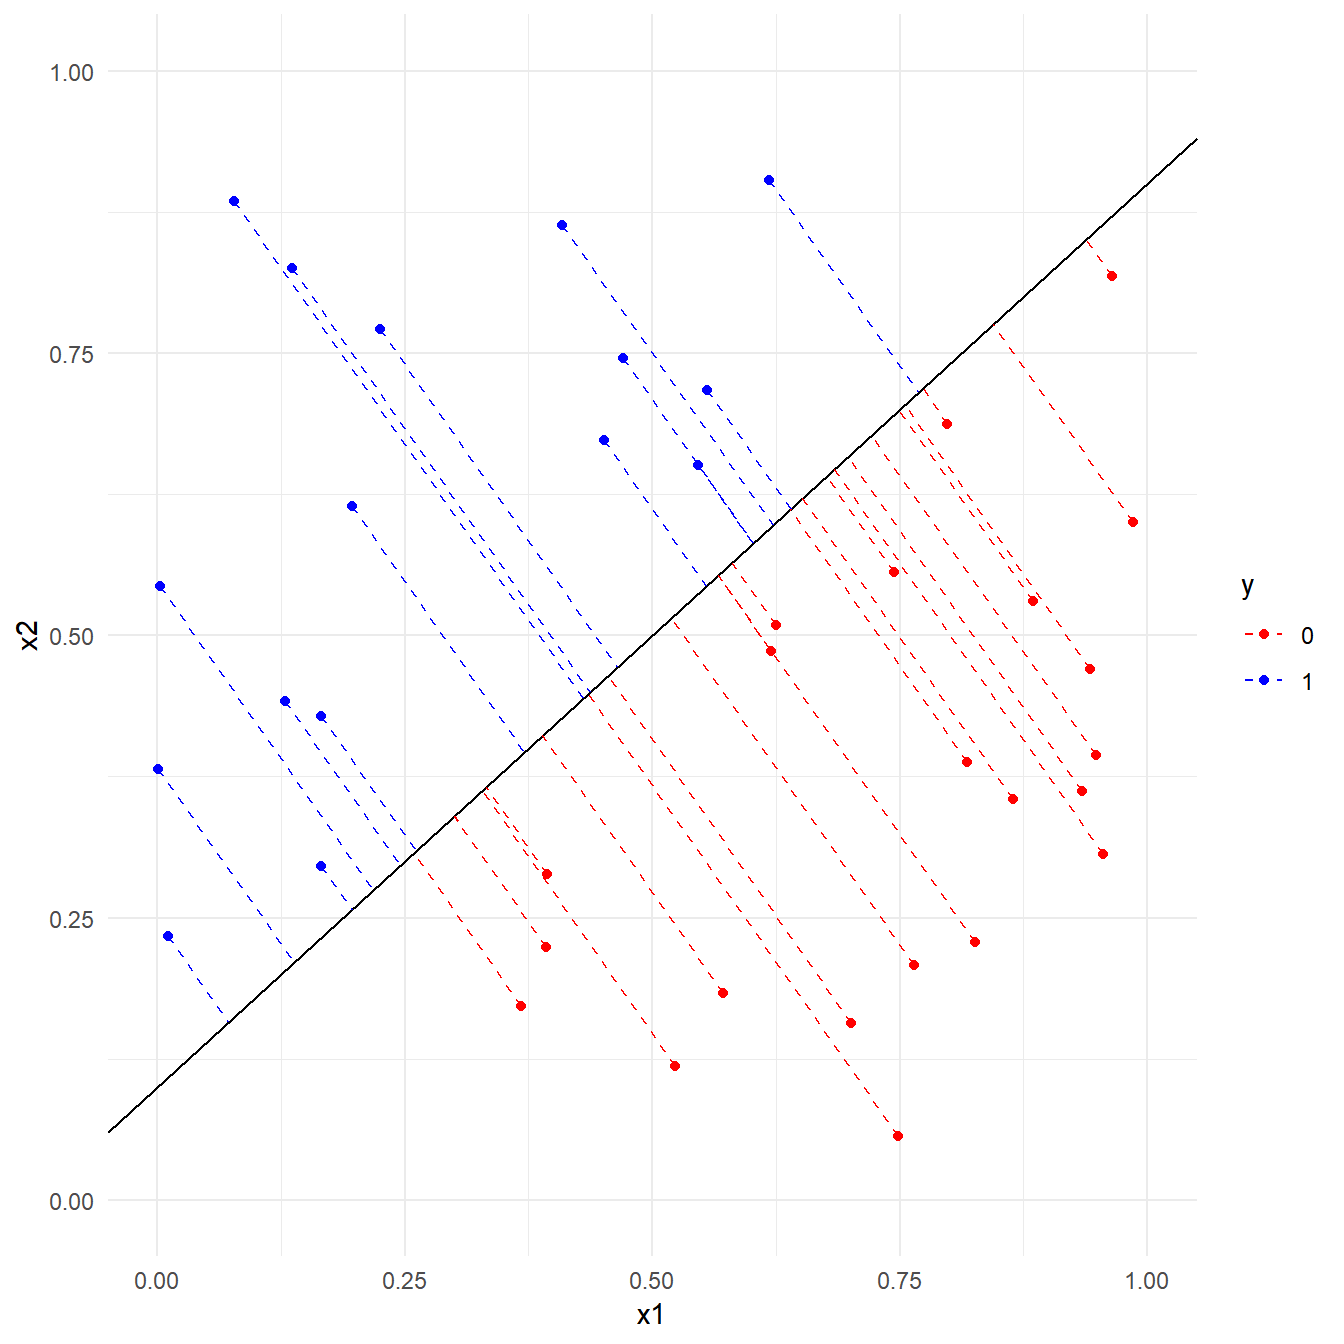
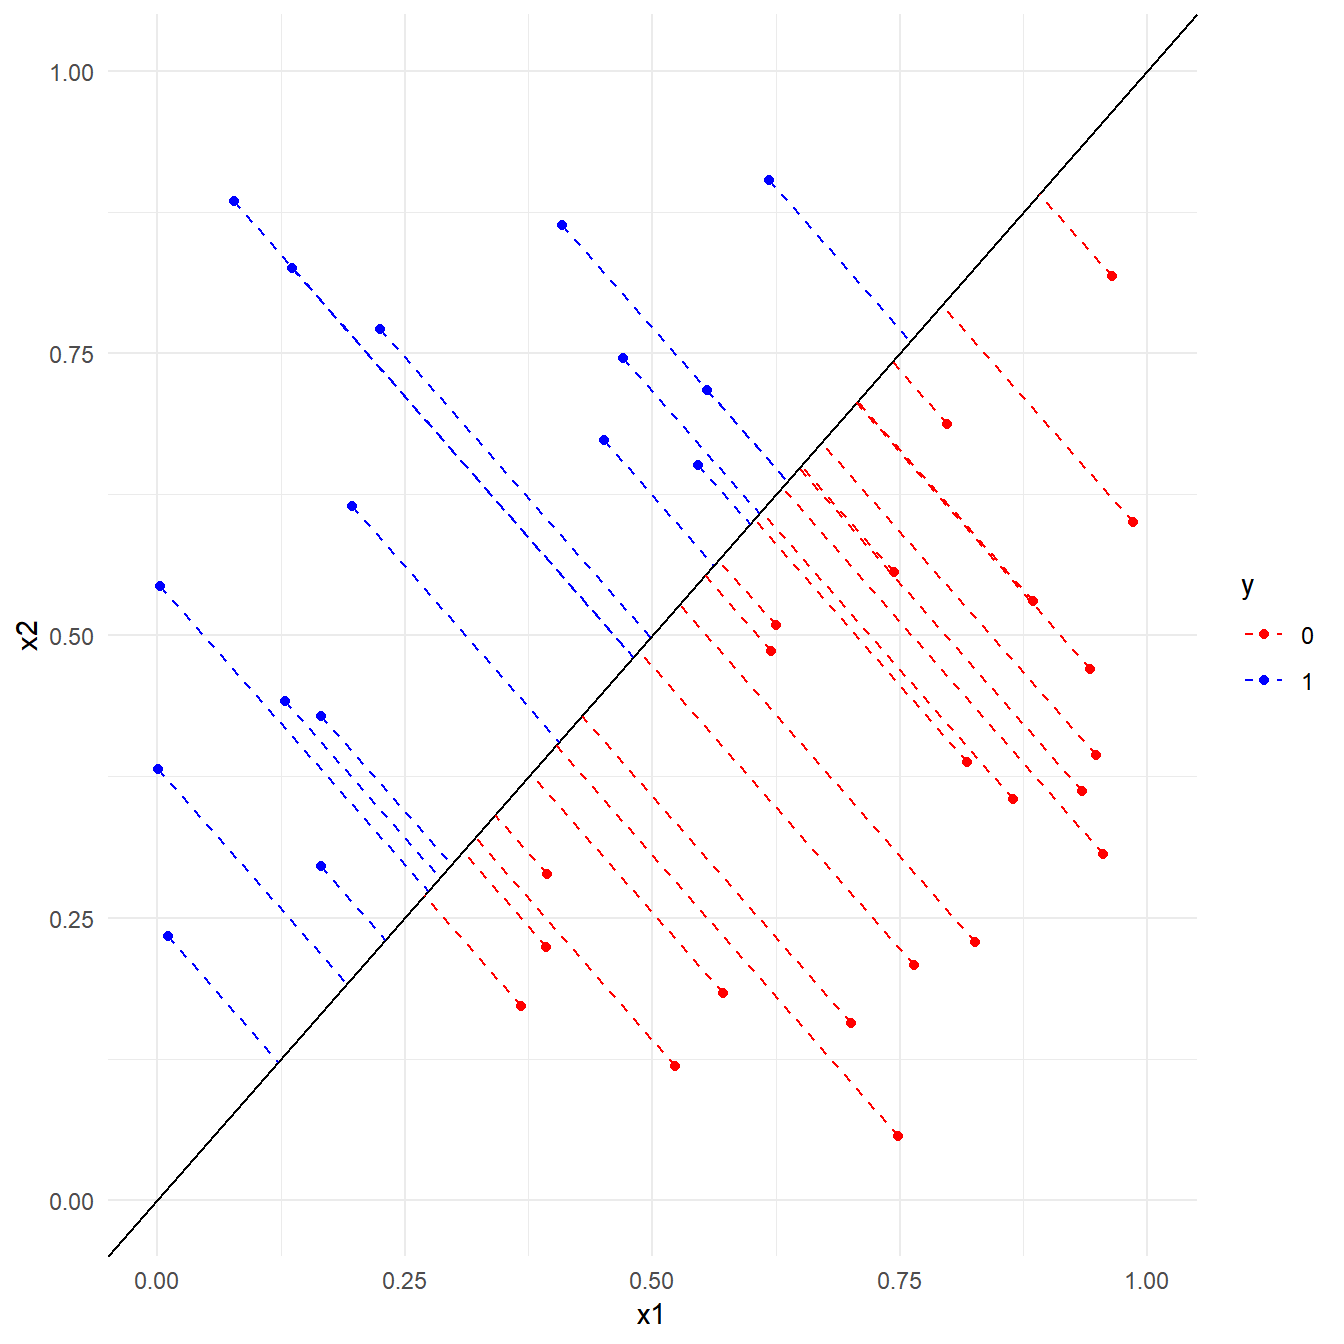
updated

diff --git a/public/2020/05/18/svm-theory-part1/index.html b/public/2020/05/18/svm-theory-part1/index.html
@@ -62,7 +62,7 @@
 
   <article class="article">
     
-    <span class="article-duration">4 min read</span>
+    <span class="article-duration">5 min read</span>
     
 
     <h1 class="article-title">SVM theory Part1</h1>
@@ -148,10 +148,10 @@ linear_plot_with_theta_delta(1, .1) +
 <p><img src="/post/2020-05-18-svm-theory-part1_files/figure-html/unnamed-chunk-4-1.png" width="672" style="display: block; margin: auto;" /></p>
 <p>빨간선의 경우 그림에서처럼 4개의 보라색 원으로 감싸여진 데이터가 매우 Decision Boundary와 가까워집니다. 데이터라는 것은 언제나 특정 시점의 관측자에 의해 측정되어진 것이기에 그 값은 측정 시점과 관측자의 상태에 따라 변동이 생깁니다. 만약 위의 보라색 원 안에 있는 데이터들이 상하좌우로 이동을 하게 된다면 어떨까요? 어떤 경우는 Decision Boundary를 넘어가 Positive를 Negative로 혹은 Negative를 Positive로 잘못 분류하는 경우가 발생합니다. 즉, 빨간선을 Decision Boundary로 가지는 분류모델은 초록선을 Decision Boundary로 가지는 분류모델에 비해 불안한 나쁜 모델이라고 할 수 있습니다. 즉 우리의 직관이 맞는 겁니다.</p>
 <p>그런데 어떻게 이 초록색 Decision Boundary를 잘 찾을 수 있을까요? 어떻게 이 Decision Boundary를 계산할 수 있을까요?</p>
-<p>여기서 잠깐 한 직선과 여러 점들사이의 거리를 계산하는 문제를 생각해보겠습니다.</p>
+<p>여기서 잠깐 한 Decision Boundary와 데이터들사이의 거리를 계산하는 문제를 생각해보겠습니다. 데이터에서 Decision Boudary로 수선의 발을 내려 그 거리를 재는 것입니다.</p>
 <pre class="r"><code># the line&#39;s slope and intercept information
-slope &lt;- .8
-intercept &lt;- .1
+slope &lt;- 1
+intercept &lt;- 0
 
 perp.segment.coord &lt;- function(x1, x2, intercept, slope){
   # finds endpoint for a perpendicular segment from the point (x1,x2) to the line
@@ -177,9 +177,51 @@ ggplot(data = df_1, aes(x1, x2, color = y)) +
   geom_segment(data = perp.segment_2,
                aes(x = x1, y= x2, xend = xp1, yend = xp2), 
                lty = &#39;dashed&#39;) +
-  theme_minimal()</code></pre>
+  theme_minimal() -&gt; p; p</code></pre>
 <p><img src="/post/2020-05-18-svm-theory-part1_files/figure-html/unnamed-chunk-5-1.png" width="672" style="display: block; margin: auto;" /></p>
-<p>blogdown…</p>
+<p>y가 0이고 가장 가까운 거리를 가지는 점을 찾아보겠습니다.</p>
+<pre class="r"><code>perp.segment_2 %&gt;%
+  mutate(x_diff = xp1 - x1) %&gt;%
+  mutate(y_diff = xp2 - x2) %&gt;%
+  mutate(dist_sq = x_diff^2 + y_diff^2) %&gt;%
+  mutate(dist_ucl = sqrt(dist_sq)) %&gt;%
+  arrange(dist_sq) -&gt; df_with_dist
+
+df_with_dist %&gt;%
+  filter(y == 0) %&gt;%
+  arrange(dist_sq) %&gt;%
+  slice(1) %&gt;%
+  select(x1, x2) -&gt; df_tmp
+
+p + geom_point(data= df_tmp, 
+               aes(x1, x2), size = 7, alpha = .5, color = &#39;purple&#39;)</code></pre>
+<p><img src="/post/2020-05-18-svm-theory-part1_files/figure-html/unnamed-chunk-6-1.png" width="672" style="display: block; margin: auto;" /></p>
+<p>바로 이 점을 지나고 Decisions Boudary와 평행한 직선을 그어보겠습니다. 이는 기울기가 1이고</p>
+<pre class="r"><code>df_tmp</code></pre>
+<pre><code>##          x1        x2
+## 1 0.3942258 0.2882747</code></pre>
+<p><code>x1 = 0.3942258</code>, <code>x2 = 0.2882747</code> 인 점을 지나는 직선을 찾는 문제가 됩니다.</p>
+<pre><code>0.2882747 = 0.3942258 * 1 + intercept</code></pre>
+<p>위의 식에서 intercept를 구하면 됩니다.</p>
+<pre class="r"><code>0.2882747 - 0.3942258</code></pre>
+<pre><code>## [1] -0.1059511</code></pre>
+<p>즉, <code>intercept</code>는 <code>-0.1059511</code> 입니다. 시각화해보겠습니다.</p>
+<pre class="r"><code> p_1 &lt;- p + 
+  geom_point(data= df_tmp, aes(x1, x2), size = 7, alpha = .5, color = &#39;purple&#39;) + 
+  geom_abline(intercept = -0.1059511, slope = 1, color = &#39;purple&#39;, size = 1, linetype = &#39;dashed&#39;); p_1</code></pre>
+<p><img src="/post/2020-05-18-svm-theory-part1_files/figure-html/unnamed-chunk-9-1.png" width="672" style="display: block; margin: auto;" /></p>
+<pre class="r"><code>df_with_dist %&gt;%
+  filter(y == 1) %&gt;%
+  arrange(dist_sq) %&gt;%
+  slice(1) %&gt;%
+  select(x1, x2) -&gt; df_tmp
+
+intercept &lt;- 0.6510358 - 0.5467153
+
+p_1 + geom_point(data= df_tmp, 
+               aes(x1, x2), size = 7, alpha = .5, color = &#39;purple&#39;) +
+   geom_abline(intercept = intercept, slope = 1, color = &#39;purple&#39;, size = 1, linetype = &#39;dashed&#39;)</code></pre>
+<p><img src="/post/2020-05-18-svm-theory-part1_files/figure-html/unnamed-chunk-10-1.png" width="672" style="display: block; margin: auto;" /></p>
 
     </div>
   </article>

diff --git a/content/post/2020-05-18-svm-theory-part1.html b/content/post/2020-05-18-svm-theory-part1.html
@@ -85,10 +85,10 @@ linear_plot_with_theta_delta(1, .1) +
 <p><img src="/post/2020-05-18-svm-theory-part1_files/figure-html/unnamed-chunk-4-1.png" width="672" style="display: block; margin: auto;" /></p>
 <p>빨간선의 경우 그림에서처럼 4개의 보라색 원으로 감싸여진 데이터가 매우 Decision Boundary와 가까워집니다. 데이터라는 것은 언제나 특정 시점의 관측자에 의해 측정되어진 것이기에 그 값은 측정 시점과 관측자의 상태에 따라 변동이 생깁니다. 만약 위의 보라색 원 안에 있는 데이터들이 상하좌우로 이동을 하게 된다면 어떨까요? 어떤 경우는 Decision Boundary를 넘어가 Positive를 Negative로 혹은 Negative를 Positive로 잘못 분류하는 경우가 발생합니다. 즉, 빨간선을 Decision Boundary로 가지는 분류모델은 초록선을 Decision Boundary로 가지는 분류모델에 비해 불안한 나쁜 모델이라고 할 수 있습니다. 즉 우리의 직관이 맞는 겁니다.</p>
 <p>그런데 어떻게 이 초록색 Decision Boundary를 잘 찾을 수 있을까요? 어떻게 이 Decision Boundary를 계산할 수 있을까요?</p>
-<p>여기서 잠깐 한 직선과 여러 점들사이의 거리를 계산하는 문제를 생각해보겠습니다.</p>
+<p>여기서 잠깐 한 Decision Boundary와 데이터들사이의 거리를 계산하는 문제를 생각해보겠습니다. 데이터에서 Decision Boudary로 수선의 발을 내려 그 거리를 재는 것입니다.</p>
 <pre class="r"><code># the line&#39;s slope and intercept information
-slope &lt;- .8
-intercept &lt;- .1
+slope &lt;- 1
+intercept &lt;- 0
 
 perp.segment.coord &lt;- function(x1, x2, intercept, slope){
   # finds endpoint for a perpendicular segment from the point (x1,x2) to the line
@@ -114,6 +114,48 @@ ggplot(data = df_1, aes(x1, x2, color = y)) +
   geom_segment(data = perp.segment_2,
                aes(x = x1, y= x2, xend = xp1, yend = xp2), 
                lty = &#39;dashed&#39;) +
-  theme_minimal()</code></pre>
+  theme_minimal() -&gt; p; p</code></pre>
 <p><img src="/post/2020-05-18-svm-theory-part1_files/figure-html/unnamed-chunk-5-1.png" width="672" style="display: block; margin: auto;" /></p>
-<p>blogdown…</p>
+<p>y가 0이고 가장 가까운 거리를 가지는 점을 찾아보겠습니다.</p>
+<pre class="r"><code>perp.segment_2 %&gt;%
+  mutate(x_diff = xp1 - x1) %&gt;%
+  mutate(y_diff = xp2 - x2) %&gt;%
+  mutate(dist_sq = x_diff^2 + y_diff^2) %&gt;%
+  mutate(dist_ucl = sqrt(dist_sq)) %&gt;%
+  arrange(dist_sq) -&gt; df_with_dist
+
+df_with_dist %&gt;%
+  filter(y == 0) %&gt;%
+  arrange(dist_sq) %&gt;%
+  slice(1) %&gt;%
+  select(x1, x2) -&gt; df_tmp
+
+p + geom_point(data= df_tmp, 
+               aes(x1, x2), size = 7, alpha = .5, color = &#39;purple&#39;)</code></pre>
+<p><img src="/post/2020-05-18-svm-theory-part1_files/figure-html/unnamed-chunk-6-1.png" width="672" style="display: block; margin: auto;" /></p>
+<p>바로 이 점을 지나고 Decisions Boudary와 평행한 직선을 그어보겠습니다. 이는 기울기가 1이고</p>
+<pre class="r"><code>df_tmp</code></pre>
+<pre><code>##          x1        x2
+## 1 0.3942258 0.2882747</code></pre>
+<p><code>x1 = 0.3942258</code>, <code>x2 = 0.2882747</code> 인 점을 지나는 직선을 찾는 문제가 됩니다.</p>
+<pre><code>0.2882747 = 0.3942258 * 1 + intercept</code></pre>
+<p>위의 식에서 intercept를 구하면 됩니다.</p>
+<pre class="r"><code>0.2882747 - 0.3942258</code></pre>
+<pre><code>## [1] -0.1059511</code></pre>
+<p>즉, <code>intercept</code>는 <code>-0.1059511</code> 입니다. 시각화해보겠습니다.</p>
+<pre class="r"><code> p_1 &lt;- p + 
+  geom_point(data= df_tmp, aes(x1, x2), size = 7, alpha = .5, color = &#39;purple&#39;) + 
+  geom_abline(intercept = -0.1059511, slope = 1, color = &#39;purple&#39;, size = 1, linetype = &#39;dashed&#39;); p_1</code></pre>
+<p><img src="/post/2020-05-18-svm-theory-part1_files/figure-html/unnamed-chunk-9-1.png" width="672" style="display: block; margin: auto;" /></p>
+<pre class="r"><code>df_with_dist %&gt;%
+  filter(y == 1) %&gt;%
+  arrange(dist_sq) %&gt;%
+  slice(1) %&gt;%
+  select(x1, x2) -&gt; df_tmp
+
+intercept &lt;- 0.6510358 - 0.5467153
+
+p_1 + geom_point(data= df_tmp, 
+               aes(x1, x2), size = 7, alpha = .5, color = &#39;purple&#39;) +
+   geom_abline(intercept = intercept, slope = 1, color = &#39;purple&#39;, size = 1, linetype = &#39;dashed&#39;)</code></pre>
+<p><img src="/post/2020-05-18-svm-theory-part1_files/figure-html/unnamed-chunk-10-1.png" width="672" style="display: block; margin: auto;" /></p>
